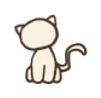
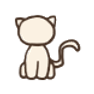
style(home): swap Pickle's resting and hover poses
The pose shown on hover suits her better at rest, and the other one makes the
livelier change when Resources is pointed at.

Changed region(s): [[0.1277, 0.1489, 0.8723, 0.8723]]

diff --git a/components/CatTree.tsx b/components/CatTree.tsx
@@ -148,7 +148,7 @@ const CATS: {
   { href: '/schedule', name: 'miso', inFront: [], rect: { x: 179, y: 61, w: 155, h: 179 }, hoverRect: { x: 138, y: 61, w: 196, h: 179 } },
   { href: '/health', name: 'pepper', inFront: ['tail'], rect: { x: 36, y: 514, w: 204, h: 147 }, hoverRect: { x: 36, y: 514, w: 203, h: 161 } },
   { href: '/about', name: 'mochi', inFront: ['head', 'tail'], rect: { x: 323, y: 933, w: 222, h: 147 }, hoverRect: { x: 348, y: 933, w: 197, h: 153 } },
-  { href: '/resources', name: 'pickle', rect: { x: 668, y: 681, w: 101, h: 98 }, hoverRect: { x: 676, y: 684, w: 94, h: 94 } },
+  { href: '/resources', name: 'pickle', rect: { x: 676, y: 684, w: 94, h: 94 }, hoverRect: { x: 668, y: 681, w: 101, h: 98 } },
 ]
 
 /* The two toys hang free, so they are lifted out of the drawing and swung on
